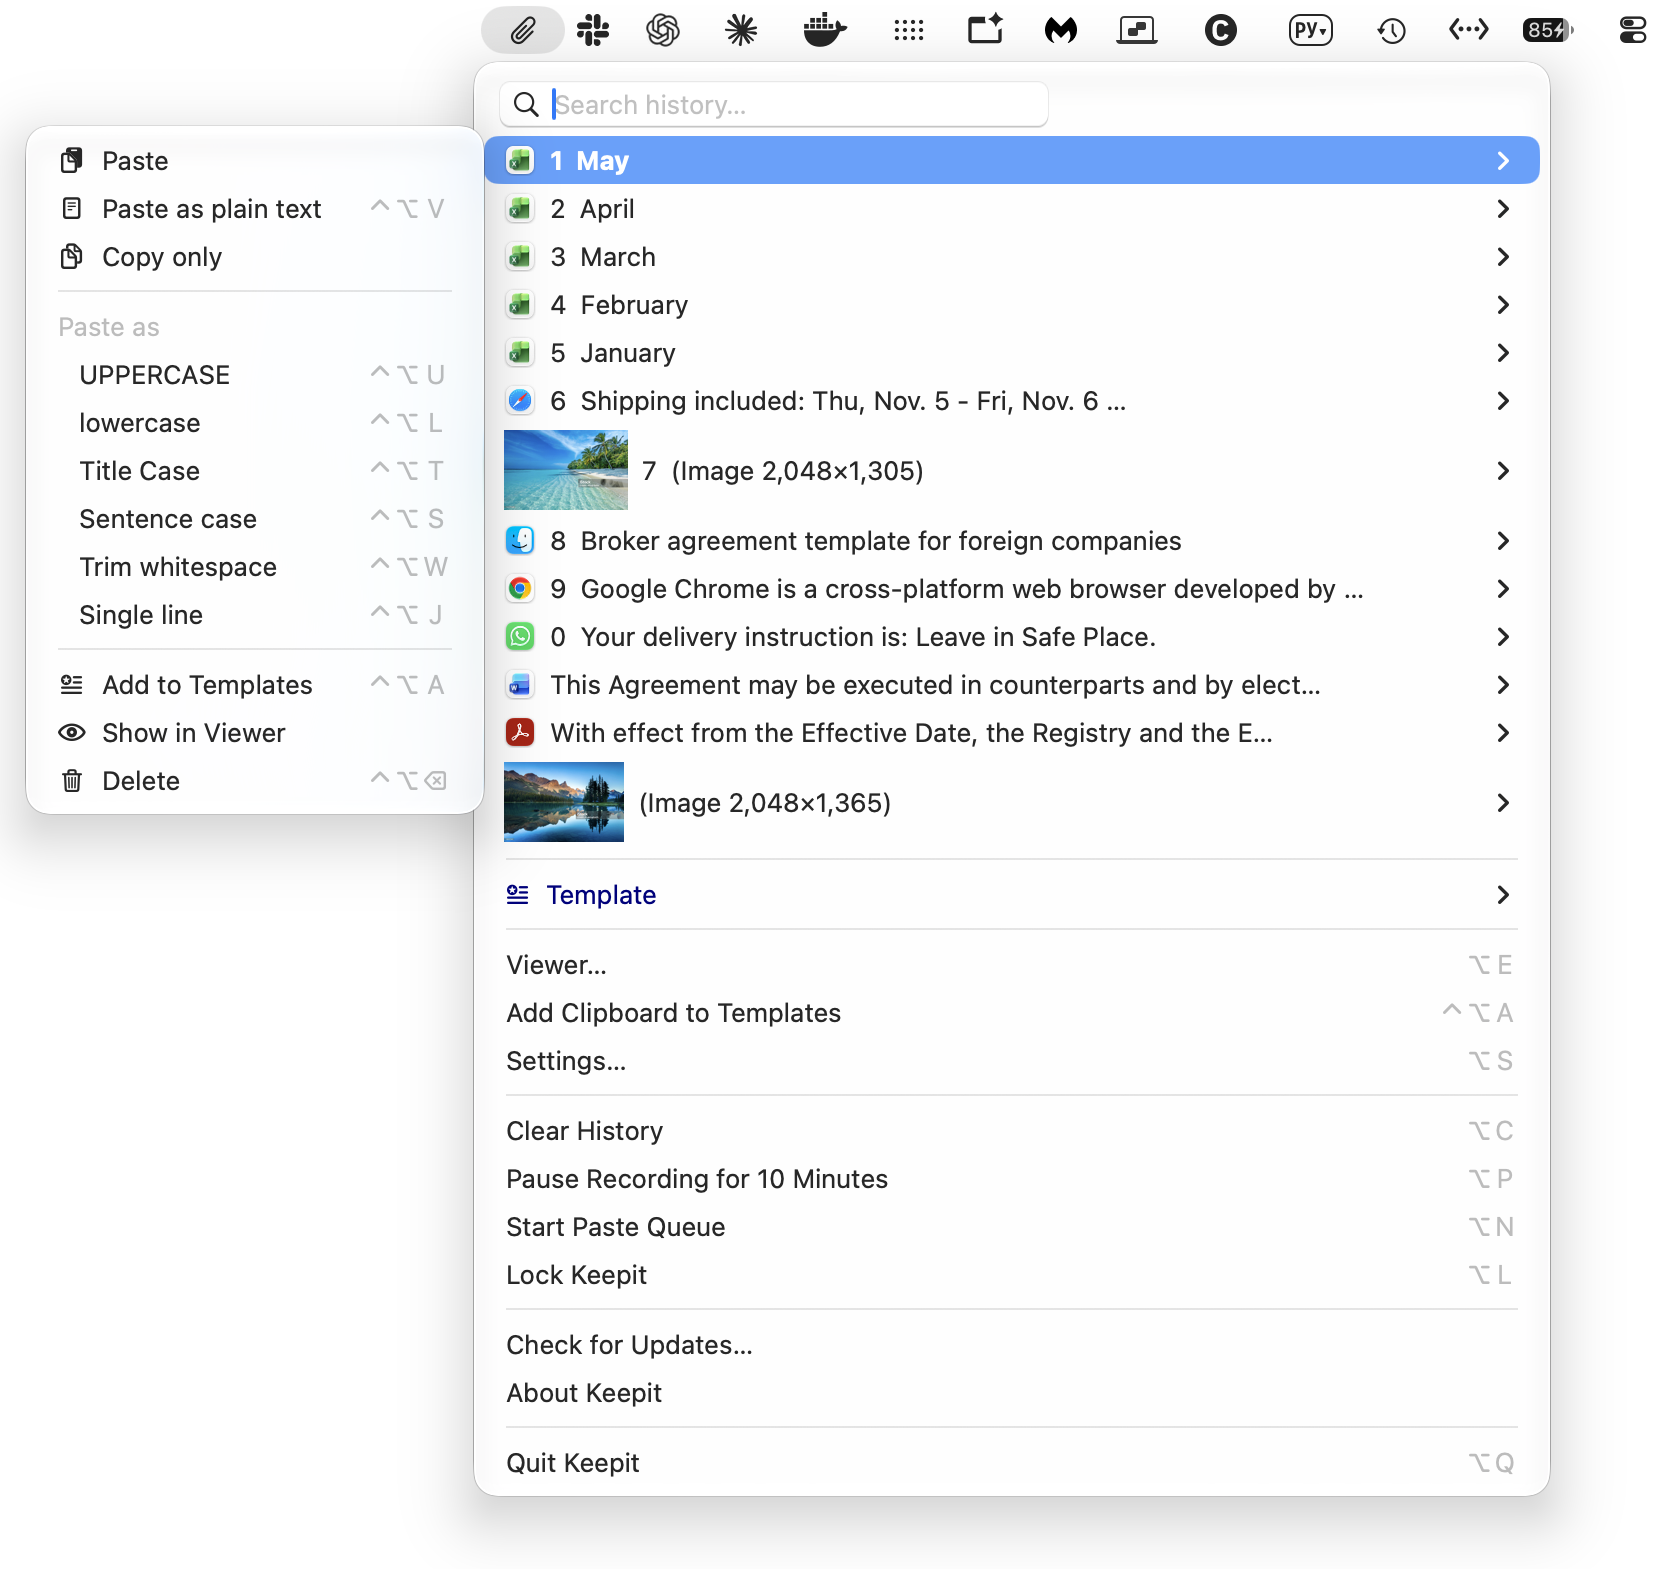
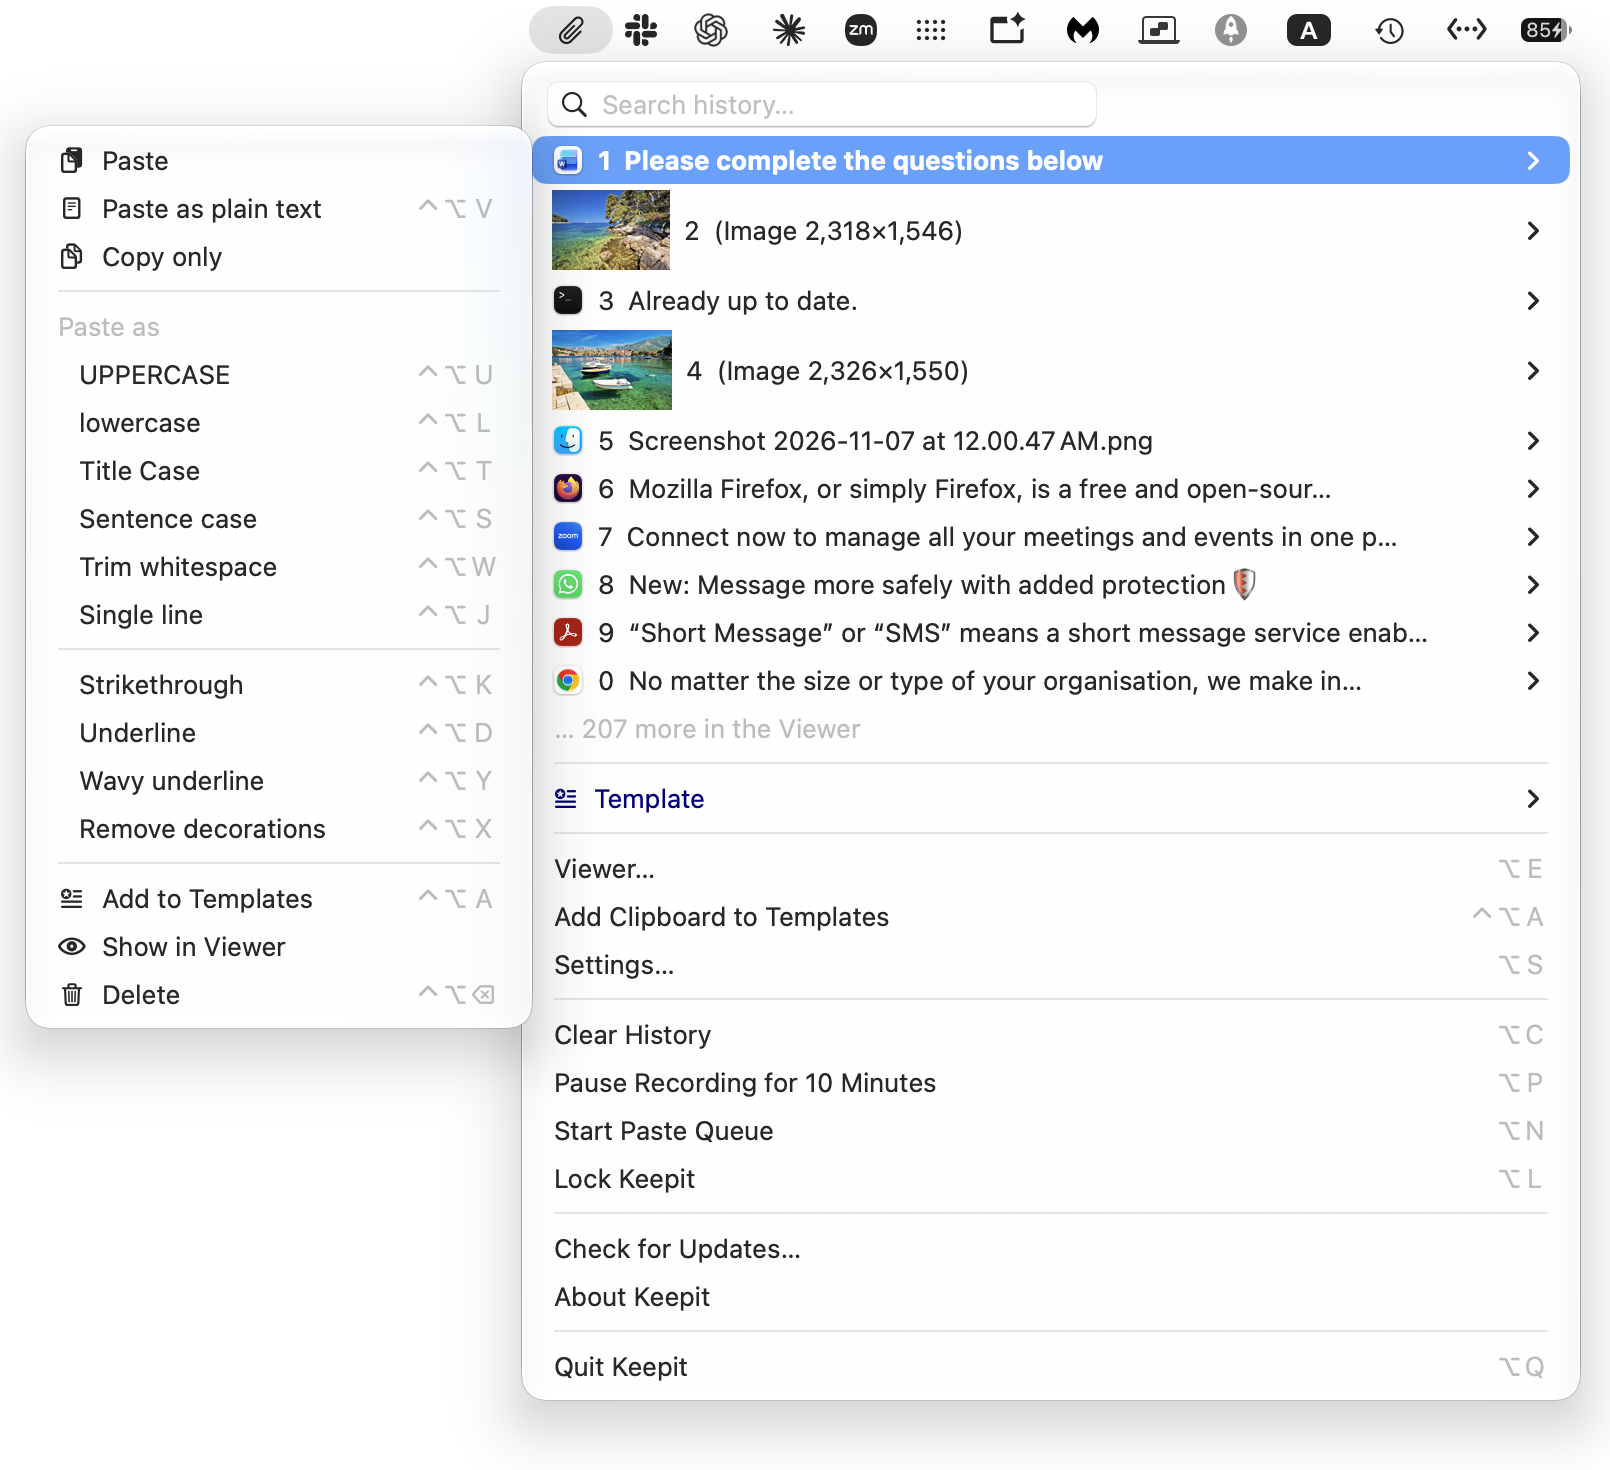
Guide screenshots for 3.0.5: Auto-lock Keepit; Paste as with decorations (#32)
prefs-security.png shows the Auto-lock Keepit delay instead of the 3.0.3
checkbox; extended-menu.png shows Strikethrough, Underline, Wavy
underline and Remove decorations in Paste as. Cropped to the old
framing (no menu-bar clock), flattened on white like the others;
guide.html and paste-as-plain-text-mac.html rebuilt (sizes, cache keys).

Claude-Session: https://claude.ai/code/session_018CvCqwF7uiVEXLm1xLVCCU

diff --git a/docs/site/guide.html b/docs/site/guide.html
@@ -224,7 +224,7 @@ items: <code>▶</code> next to paste, <code>○</code> still queued, <code>✓<
 that item: Paste, Paste as plain text, Copy only (clipboard, no paste), the <em>Paste as</em>
 transformations, Add to Templates, Show in Viewer, Delete. Point at an item or press → to open it;
 you can release ⇧ once it is open.</p>
-<figure class="shot" style="max-width:835px"><a href="img/guide/extended-menu.png?v=bd3b8e8c" class="zoom" title="Open full size"><img src="img/guide/extended-menu.png?v=bd3b8e8c" alt="Hold ⇧: every item gets a submenu; for the newest item it shows the global hot keys" width="835" height="784" loading="lazy"></a><figcaption>Hold ⇧: every item gets a submenu; for the newest item it shows the global hot keys</figcaption></figure>
+<figure class="shot" style="max-width:805px"><a href="img/guide/extended-menu.png?v=8b44e749" class="zoom" title="Open full size"><img src="img/guide/extended-menu.png?v=8b44e749" alt="Hold ⇧: every item gets a submenu; for the newest item it shows the global hot keys" width="805" height="735" loading="lazy"></a><figcaption>Hold ⇧: every item gets a submenu; for the newest item it shows the global hot keys</figcaption></figure>
 <p>For the newest item the submenu lists the global hot keys from the table above — the same actions
 with the same keys, so you can learn them here. Other items show the actions without keys: a
 shortcut either works everywhere or is not shown.</p>
@@ -433,7 +433,7 @@ recording (on some configurations it is excluded; this is not guaranteed) — fo
 fully trust, or one that is being screen-shared. At launch, and after a lock, Keepit asks for the password (or Touch ID);
 <em>Recovery Access…</em> takes the 24-word phrase instead — see <a href="#recovery-phrase">Recovery phrase</a>.</p>
 <figure class="shot" style="max-width:800px"><a href="img/guide/unlock-keyboard.jpg?v=4c0be394" class="zoom" title="Open full size"><img src="img/guide/unlock-keyboard.jpg?v=4c0be394" alt="Unlocking at launch: password, Quit, or the recovery phrase; OK stays disabled until something is typed. Photographed, for the same reason as above" width="800" height="600" loading="lazy"></a><figcaption>Unlocking at launch: password, Quit, or the recovery phrase; OK stays disabled until something is typed. Photographed, for the same reason as above</figcaption></figure>
-<figure class="shot" style="max-width:636px"><a href="img/guide/prefs-security.png?v=853309de" class="zoom" title="Open full size"><img src="img/guide/prefs-security.png?v=853309de" alt="Settings → Security" width="636" height="431" loading="lazy"></a><figcaption>Settings → Security</figcaption></figure>
+<figure class="shot" style="max-width:636px"><a href="img/guide/prefs-security.png?v=7204a4dd" class="zoom" title="Open full size"><img src="img/guide/prefs-security.png?v=7204a4dd" alt="Settings → Security" width="636" height="435" loading="lazy"></a><figcaption>Settings → Security</figcaption></figure>
 <h3 id="touch-id">Touch ID</h3>
 <p>With <em>Unlock with Touch ID</em> the key is also stored in the Secure Enclave behind your fingerprint:
 Keepit asks for a touch instead of the password. The password keeps working as a fallback — <em>Use

diff --git a/docs/site/paste-as-plain-text-mac.html b/docs/site/paste-as-plain-text-mac.html
@@ -84,7 +84,7 @@ footer .wrap{display:flex;flex-wrap:wrap;gap:12px 28px;justify-content:space-bet
 <li>In the history menu (<kbd class="k">⌥M</kbd>), <strong><kbd class="k">⌘</kbd> + number</strong> pastes that item as plain text, and holding <kbd class="k">⇧</kbd> gives every item a submenu with <em>Paste as Plain Text</em> and the other transformations.</li>
 <li>The same family of keys transforms text on the way out: <kbd class="k">⌃⌥U</kbd> pastes as UPPERCASE, <kbd class="k">⌃⌥L</kbd> lowercase, <kbd class="k">⌃⌥T</kbd> Title Case, <kbd class="k">⌃⌥S</kbd> Sentence case, <kbd class="k">⌃⌥W</kbd> trimmed of surrounding whitespace, <kbd class="k">⌃⌥J</kbd> joined onto one line.</li>
 </ul>
-<figure class="shot" style="max-width:835px"><a href="img/guide/extended-menu.png?v=bd3b8e8c" class="zoom" title="Open full size"><img src="img/guide/extended-menu.png?v=bd3b8e8c" alt="The extended history menu with paste transformations" width="835" height="784" loading="lazy"></a><figcaption>The extended history menu with paste transformations</figcaption></figure>
+<figure class="shot" style="max-width:805px"><a href="img/guide/extended-menu.png?v=8b44e749" class="zoom" title="Open full size"><img src="img/guide/extended-menu.png?v=8b44e749" alt="The extended history menu with paste transformations" width="805" height="735" loading="lazy"></a><figcaption>The extended history menu with paste transformations</figcaption></figure>
 <p>Every key can be changed in <em>Settings → Shortcuts</em>, and if you want plain text to be the default, set a per-app paste key in <em>Settings → Menu</em> for the apps that need it.</p>
 <p>Keepit is open source and keeps everything on your Mac (backups to a folder of yours are optional and encrypted); the <a href="/security">security page</a> explains what is stored and how.</p>
 <h2 id="related">Related</h2>
